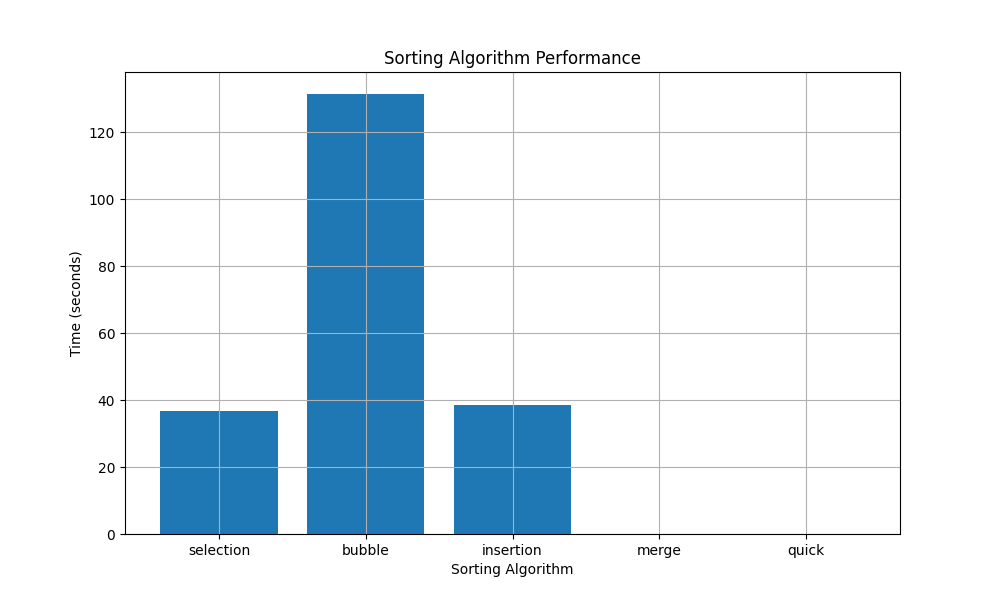
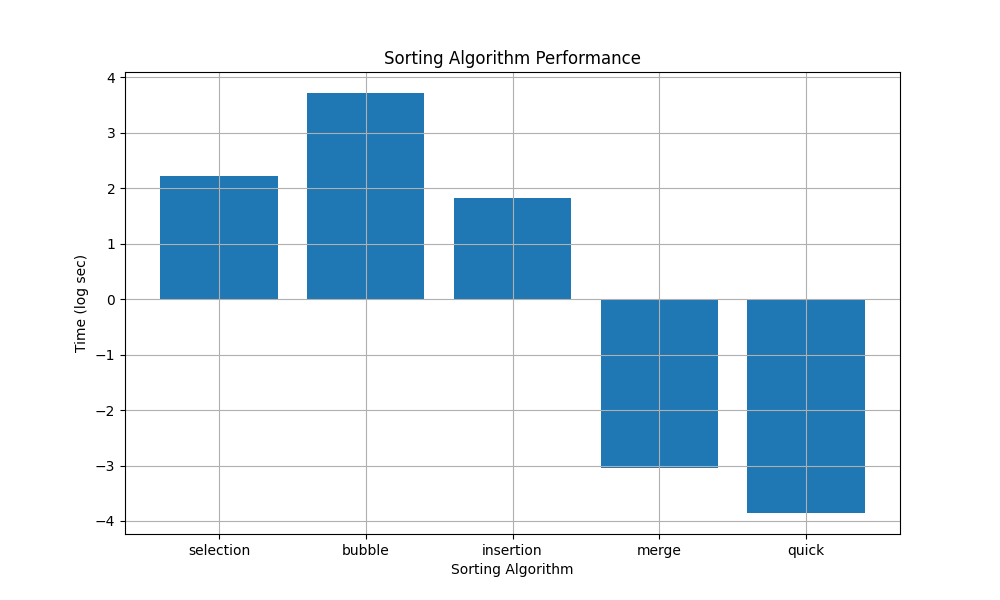
get the log value of time

diff --git a/lab1/benchmark.py b/lab1/benchmark.py
@@ -35,9 +35,29 @@ def run_benchmark(algorithm, size):
         print(f"{algorithm} sort with size {size}: Exceeded time limit of {time_limit} seconds")
         return time_limit
 
+# 读取保存的数据，如果存在的话跳过已有的数据
+read_txt = []
+if os.path.exists("benchmarkResult.txt"):
+    with open("benchmarkResult.txt", "r") as f:
+        read_txt = f.readlines()
+
+
+
 results = {alg: [] for alg in algorithms}
 for size in sizes:
     for alg in algorithms:
+        # 如果已有数据则跳过
+        find = False
+        for i in range(len(read_txt)):
+            if f"{alg}:\n" in read_txt[i]:
+                for j in range(len(sizes)):
+                    if f"{size} " in read_txt[i + j + 1]:
+                        results[alg].append(float(read_txt[i + j + 1].split()[1]))
+                        find = True
+                        break
+        
+        if find:
+            continue
         time_taken = run_benchmark(alg, size)
         results[alg].append(time_taken)
 
@@ -47,18 +67,24 @@ with open("benchmarkResult.txt", "w") as f:
         f.write(f"{alg}:\n")
         for i in range(len(sizes)):
             f.write(f"{sizes[i]} {results[alg][i]}\n")
-        f.write("\n")     
+        f.write("\n")   
+
+# 对数处理size
+sizes = np.log(sizes)  
 
 plt.figure(figsize=(10, 6))
 for alg in algorithms:
     plt.plot(sizes, results[alg], label=alg)
 
-plt.xlabel("Array Size")
-plt.ylabel("Time (seconds)")
-plt.title("Sorting Algorithm Performance")
-plt.legend()
+plt.xlabel("Array Size(log n)", fontsize=16)
+plt.ylabel("Time (seconds)", fontsize=16)
+plt.title("Sorting Algorithm Performance", fontsize=20)
+plt.legend(fontsize=12)
+plt.xticks(fontsize=12)
+plt.yticks(fontsize=12)
 plt.grid()
-plt.show()
+
 
 # 保存图像为png文件
 plt.savefig("benchmarkResult.png")
+plt.show()

diff --git a/lab1/benchmark20avg.py b/lab1/benchmark20avg.py
@@ -11,8 +11,8 @@ cpp_program = "./Algorithms.exe"
 
 algorithms = ["selection", "bubble", "insertion", "merge", "quick"]
 
-size = 10000000
-test_times = 1
+size = 100000
+test_times = 20
 
 def run_benchmark(algorithm, size):
     start_time = time.time()
@@ -24,10 +24,25 @@ results = []
 for i in range(len(algorithms)):
     results.append(0)
 
+# 读取保存的数据，如果存在的话跳过已有的数据
+read_txt = []
+if os.path.exists("benchmarkResult20avg.txt"):
+    with open("benchmarkResult20avg.txt", "r") as f:
+        read_txt = f.readlines()
+
 for alg in algorithms:
     i = algorithms.index(alg)
     for j in range(test_times):
         print(f"running {alg} sort {j + 1} times")
+        # 如果已有数据则跳过
+        find = False
+        for k in range(len(read_txt)):
+            if f"{alg}:" in read_txt[k]:
+                results[i] += float(read_txt[k].split(" ")[1])
+                find = True
+        
+        if find:
+            continue
         time_taken = run_benchmark(alg, size)
         results[i] += time_taken
         
@@ -46,7 +61,7 @@ results = np.log(results)
 plt.figure(figsize=(10, 6))
 plt.bar(algorithms, results)
 plt.xlabel("Sorting Algorithm")
-plt.ylabel("Time (seconds)")
+plt.ylabel("Time (log sec)")
 plt.title("Sorting Algorithm Performance")
 plt.grid()
 plt.savefig("benchmarkResult20avg.png")
